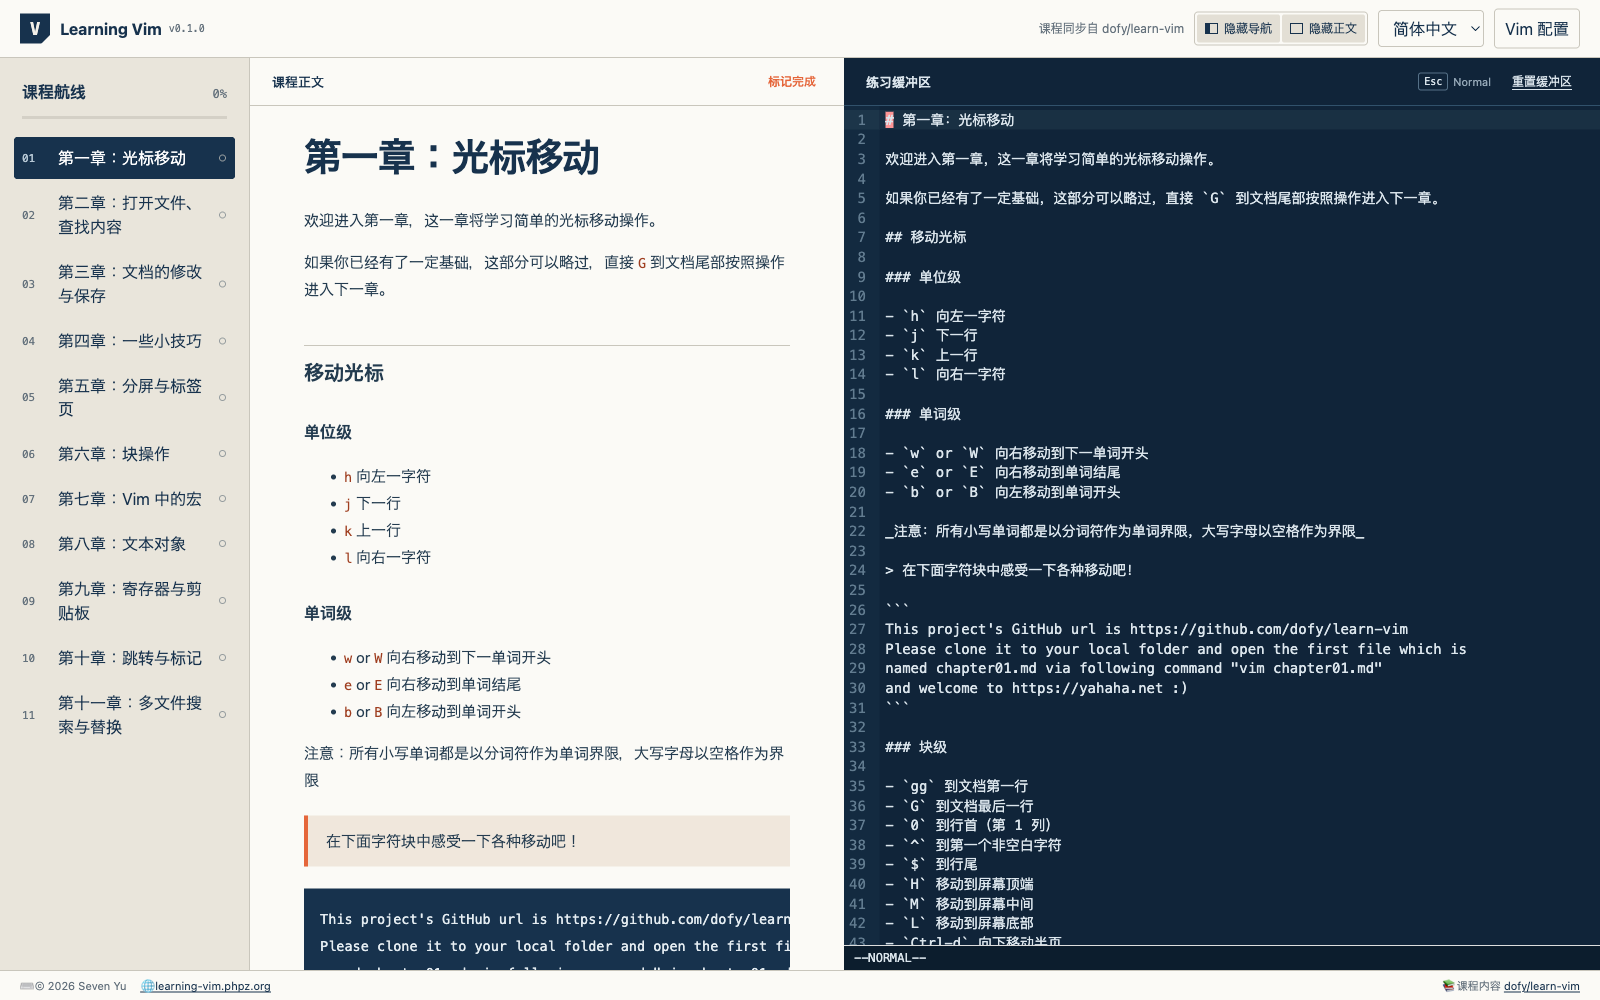
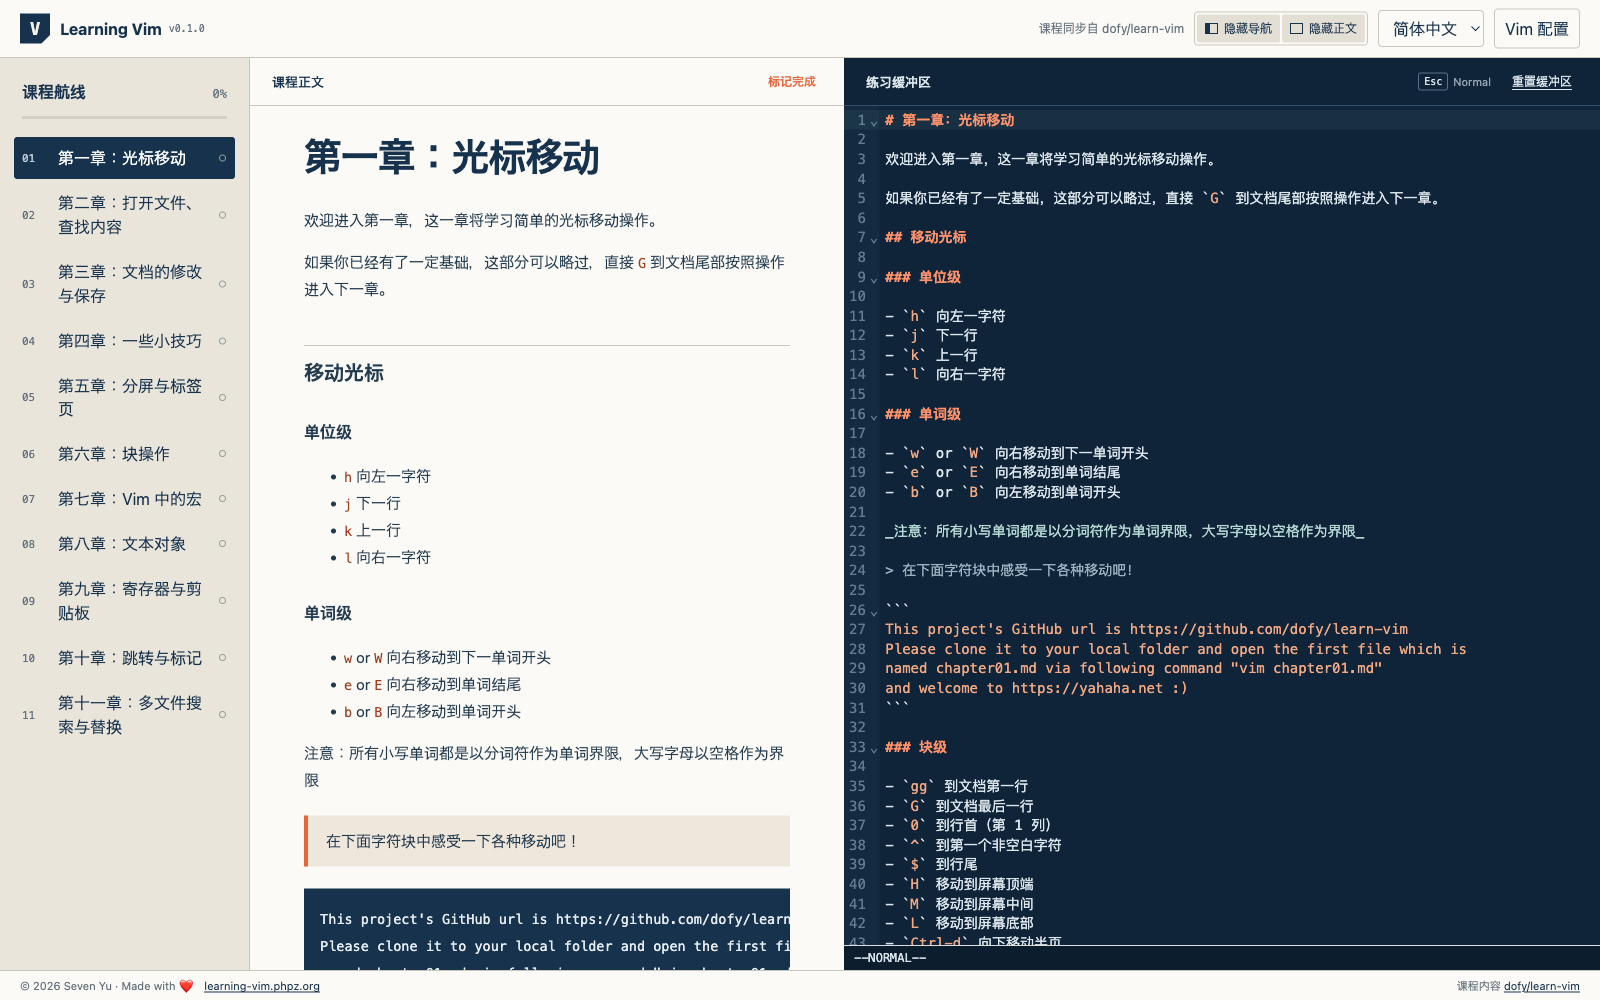
feat: add Markdown syntax highlighting

diff --git a/src/App.vue b/src/App.vue
@@ -9,7 +9,7 @@ const labels = {
   en: {
     course: 'Course map', lesson: 'Lesson', practice: 'Practice buffer', reset: 'Reset buffer',
     complete: 'Mark complete', completed: 'Completed', config: 'Vim config', apply: 'Apply config',
-    configHelp: 'MVP support: set number, relativenumber, wrap, tabstop and map commands.',
+    configHelp: 'Supports syntax on/off, number, relativenumber, wrap, tabstop and map commands.',
     source: 'Content synced from dofy/learn-vim', loading: 'Loading course…', update: 'A new version is ready.',
     reload: 'Reload', mobileLesson: 'Read', mobilePractice: 'Practice', error: 'Course could not be loaded.',
     showNav: 'Show course map', hideNav: 'Hide course map', showLesson: 'Show lesson', hideLesson: 'Hide lesson',
@@ -18,7 +18,7 @@ const labels = {
   'zh-CN': {
     course: '课程航线', lesson: '课程正文', practice: '练习缓冲区', reset: '重置缓冲区',
     complete: '标记完成', completed: '已完成', config: 'Vim 配置', apply: '应用配置',
-    configHelp: 'MVP 支持 set number、relativenumber、wrap、tabstop 和 map 系列命令。',
+    configHelp: '支持 syntax on/off、number、relativenumber、wrap、tabstop 和 map 系列命令。',
     source: '课程同步自 dofy/learn-vim', loading: '正在装载课程…', update: '新版本已准备好。',
     reload: '重新载入', mobileLesson: '阅读', mobilePractice: '练习', error: '课程加载失败。',
     showNav: '显示导航', hideNav: '隐藏导航', showLesson: '显示正文', hideLesson: '隐藏正文',
@@ -27,7 +27,7 @@ const labels = {
   ja: {
     course: 'コースマップ', lesson: 'レッスン', practice: '練習バッファ', reset: 'バッファを戻す',
     complete: '完了にする', completed: '完了', config: 'Vim 設定', apply: '設定を適用',
-    configHelp: 'MVP は number、relativenumber、wrap、tabstop、map コマンドに対応します。',
+    configHelp: 'syntax on/off、number、relativenumber、wrap、tabstop、map コマンドに対応します。',
     source: 'dofy/learn-vim から同期', loading: 'コースを読み込み中…', update: '新しい版があります。',
     reload: '再読み込み', mobileLesson: '読む', mobilePractice: '練習', error: 'コースを読み込めません。',
     showNav: 'ナビを表示', hideNav: 'ナビを隠す', showLesson: '本文を表示', hideLesson: '本文を隠す',
@@ -57,7 +57,7 @@ const buffer = ref('')
 const loading = ref(true)
 const error = ref('')
 const completed = ref<Record<string, boolean>>({})
-const vimrc = ref('set number\nset tabstop=4\n" Try: inoremap jj <Esc>')
+const vimrc = ref('syntax on\nset number\nset tabstop=4\n" Try: inoremap jj <Esc>')
 const vimConfigOpen = ref(false)
 const configWarnings = ref<string[]>([])
 const mobilePane = ref<'lesson' | 'practice'>('lesson')
@@ -315,10 +315,10 @@ onMounted(async () => {
     </main>
 
     <footer class="site-footer">
-      <span>⌨ © 2026 Seven Yu</span>
-      <a href="https://learning-vim.phpz.org/">🌐 learning-vim.phpz.org</a>
+      <span>© 2026 Seven Yu · Made with ❤</span>
+      <a href="https://learning-vim.phpz.org/">learning-vim.phpz.org</a>
       <span class="footer-source">
-        📚 {{ t.contentBy }}
+        {{ t.contentBy }}
         <a href="https://github.com/dofy/learn-vim" target="_blank" rel="noreferrer">dofy/learn-vim</a>
       </span>
     </footer>

diff --git a/src/components/VimEditor.vue b/src/components/VimEditor.vue
@@ -1,8 +1,11 @@
 <script setup lang="ts">
 import { basicSetup } from 'codemirror'
+import { markdown } from '@codemirror/lang-markdown'
+import { HighlightStyle, syntaxHighlighting } from '@codemirror/language'
 import { EditorState } from '@codemirror/state'
 import { EditorView, lineNumbers } from '@codemirror/view'
 import { Vim, vim } from '@replit/codemirror-vim'
+import { tags } from '@lezer/highlight'
 import { onBeforeUnmount, onMounted, ref, watch } from 'vue'
 import type { VimMapping, VimPreferences } from '../types'
 
@@ -20,6 +23,16 @@ const host = ref<HTMLElement>()
 let editor: EditorView | undefined
 let appliedMappings: VimMapping[] = []
 
+const learningVimHighlightStyle = HighlightStyle.define([
+  { tag: tags.heading, color: '#ff916b', fontWeight: '700' },
+  { tag: tags.strong, color: '#f3c776', fontWeight: '700' },
+  { tag: tags.emphasis, color: '#b6d9d5', fontStyle: 'italic' },
+  { tag: [tags.link, tags.url], color: '#79c7c1', textDecoration: 'underline' },
+  { tag: tags.monospace, color: '#f0a985' },
+  { tag: tags.quote, color: '#9db3c2', fontStyle: 'italic' },
+  { tag: tags.contentSeparator, color: '#6e8799' },
+])
+
 function clearMappings() {
   for (const mapping of appliedMappings) {
     try {
@@ -36,6 +49,8 @@ function applyMappings() {
   for (const mapping of props.mappings) {
     if (mapping.unmap) {
       Vim.unmap(mapping.lhs, mapping.mode)
+    } else if (mapping.noremap) {
+      Vim.noremap(mapping.lhs, mapping.rhs, mapping.mode)
     } else Vim.map(mapping.lhs, mapping.rhs, mapping.mode)
   }
   appliedMappings = props.mappings.filter((mapping) => !mapping.unmap)
@@ -67,6 +82,9 @@ function createEditor() {
     )
   }
   if (props.preferences.lineWrapping) extensions.push(EditorView.lineWrapping)
+  if (props.preferences.syntaxHighlighting) {
+    extensions.push(markdown(), syntaxHighlighting(learningVimHighlightStyle))
+  }
 
   editor = new EditorView({
     parent: host.value,

diff --git a/src/vimrc.ts b/src/vimrc.ts
@@ -5,6 +5,7 @@ export const defaultPreferences: VimPreferences = {
   relativeLineNumbers: false,
   lineWrapping: false,
   tabSize: 4,
+  syntaxHighlighting: true,
 }
 
 const mappingModes: Record<string, VimMapping['mode']> = {
@@ -58,6 +59,12 @@ export function parseVimrc(source: string): {
       continue
     }
 
+    const syntaxMatch = line.match(/^syntax\s+(on|enable|off)$/)
+    if (syntaxMatch?.[1]) {
+      preferences.syntaxHighlighting = syntaxMatch[1] !== 'off'
+      continue
+    }
+
     const mappingMatch = line.match(/^(\w*map|\w*unmap)\s+(\S+)(?:\s+(.+))?$/)
     if (mappingMatch?.[1] && mappingMatch[2]) {
       const command = mappingMatch[1]
@@ -72,11 +79,12 @@ export function parseVimrc(source: string): {
         rhs: replaceLeader(mappingMatch[3] || ''),
         mode: mappingModes[command],
         unmap: command.endsWith('unmap'),
+        noremap: command.includes('noremap'),
       })
       continue
     }
 
-    if (!/^(filetype|syntax)\b/.test(line)) {
+    if (!/^filetype\b/.test(line)) {
       warnings.push(`Line ${index + 1}: ignored in the web MVP`)
     }
   }

diff --git a/src/vimrc.test.ts b/src/vimrc.test.ts
@@ -1,0 +1,23 @@
+import { describe, expect, it } from 'vitest'
+import { parseVimrc } from './vimrc'
+
+describe('parseVimrc', () => {
+  it('enables and disables syntax highlighting', () => {
+    expect(parseVimrc('syntax off').preferences.syntaxHighlighting).toBe(false)
+    expect(parseVimrc('syntax on').preferences.syntaxHighlighting).toBe(true)
+    expect(parseVimrc('syntax enable').preferences.syntaxHighlighting).toBe(true)
+  })
+
+  it('warns about unsupported syntax commands', () => {
+    expect(parseVimrc('syntax manual').warnings).toEqual(['Line 1: ignored in the web MVP'])
+  })
+
+  it('preserves recursive and non-recursive mapping semantics', () => {
+    const result = parseVimrc('nmap j gj\nnnoremap k gk')
+
+    expect(result.mappings).toEqual([
+      { lhs: 'j', rhs: 'gj', mode: 'normal', unmap: false, noremap: false },
+      { lhs: 'k', rhs: 'gk', mode: 'normal', unmap: false, noremap: true },
+    ])
+  })
+})

diff --git a/src/types.ts b/src/types.ts
@@ -19,6 +19,7 @@ export interface VimPreferences {
   relativeLineNumbers: boolean
   lineWrapping: boolean
   tabSize: number
+  syntaxHighlighting: boolean
 }
 
 export interface VimMapping {
@@ -26,4 +27,5 @@ export interface VimMapping {
   rhs: string
   mode: 'normal' | 'insert' | 'visual'
   unmap?: boolean
+  noremap?: boolean
 }

diff --git a/README.md b/README.md
@@ -87,6 +87,7 @@ The current editor uses CodeMirror 6 with `@replit/codemirror-vim`. It covers
 the everyday Vim motions and editing workflow needed for the first usable
 release. The `.vimrc` parser intentionally supports a safe subset:
 
+- `syntax on` / `syntax off` for Markdown highlighting
 - `set number`, `relativenumber`, `wrap`, and `tabstop`
 - `map`, `noremap`, `nmap`, `nnoremap`, `imap`, `inoremap`, `vmap`, and their
   matching `unmap` commands
